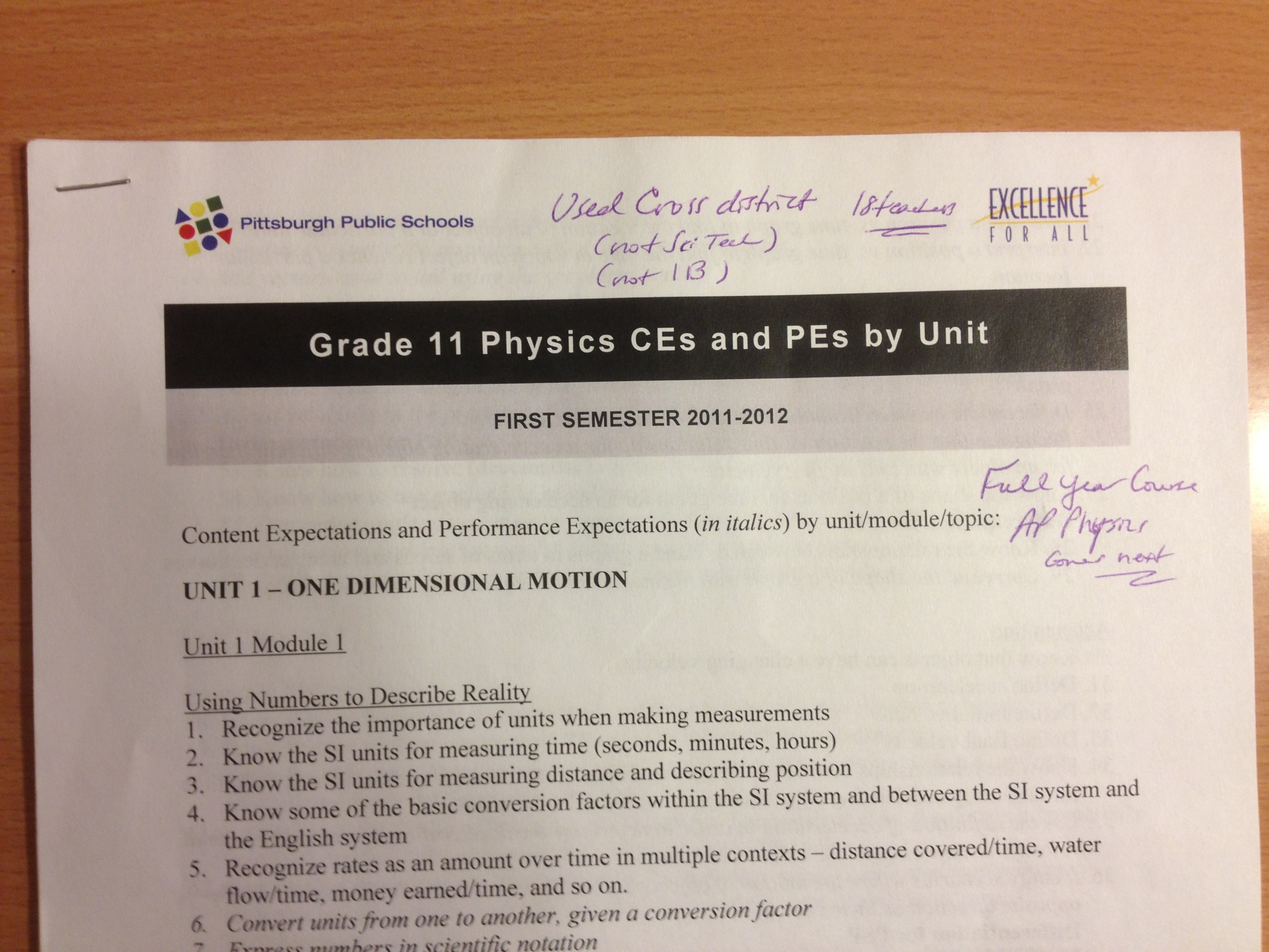
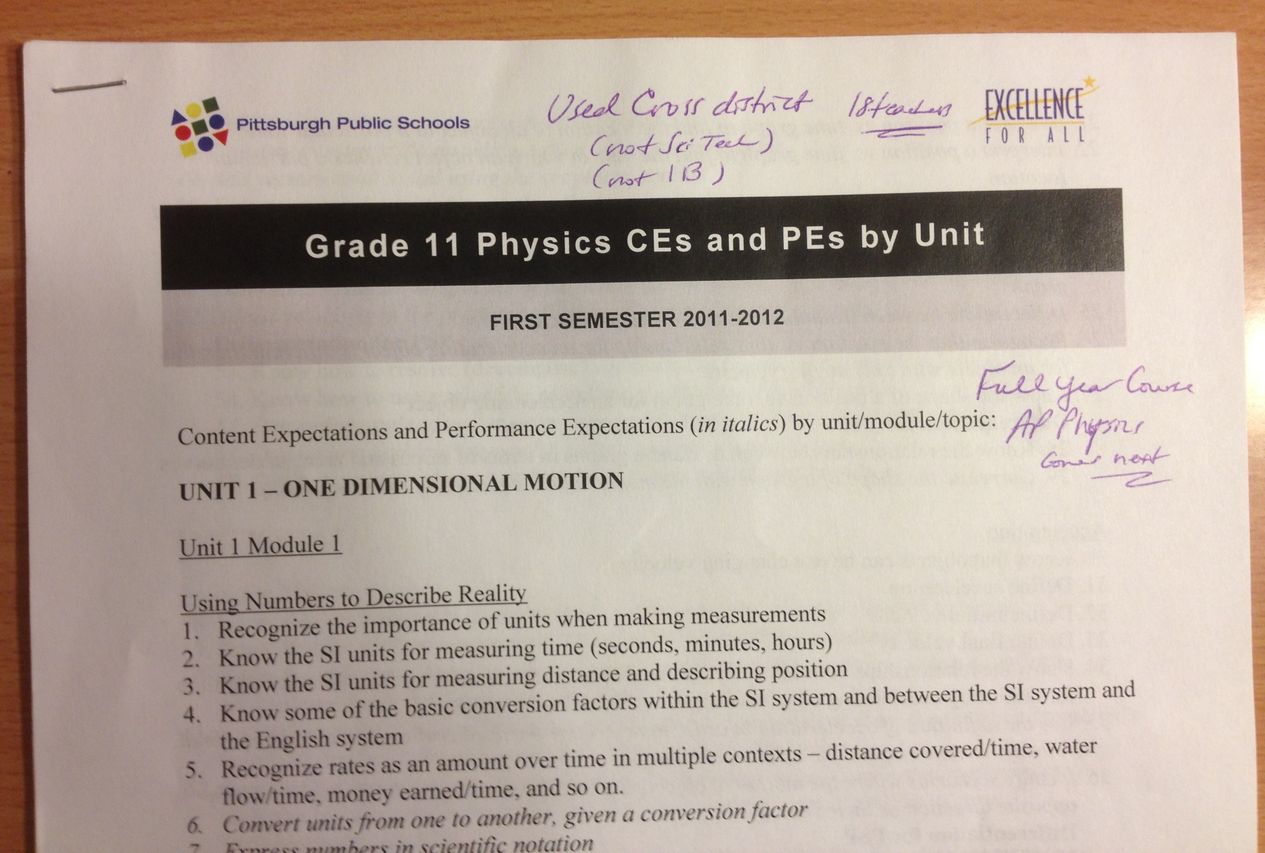
made cover photo for mybinder proj

diff --git a/content/portfolio/myBinder.md b/content/portfolio/myBinder.md
@@ -4,7 +4,7 @@ number : 4
 created_at: 2012-05-01
 category : [UX Design]
 tags : [User Research/Contextual Inquiry, Prototyping, UI Design, Ruby on Rails Development, Database Design]
-image : /assets/images/mybinder/mybinder-unit.png
+image : /assets/images/mybinder/cover.png
 description: myBinder is a curriculum sharing and management app I created for/with administrators and teachers at Pittsburgh Public Schools. 
 link : http://mybinder.herokuapp.com/courses/1
 code : https://github.com/juliat/mybinder
